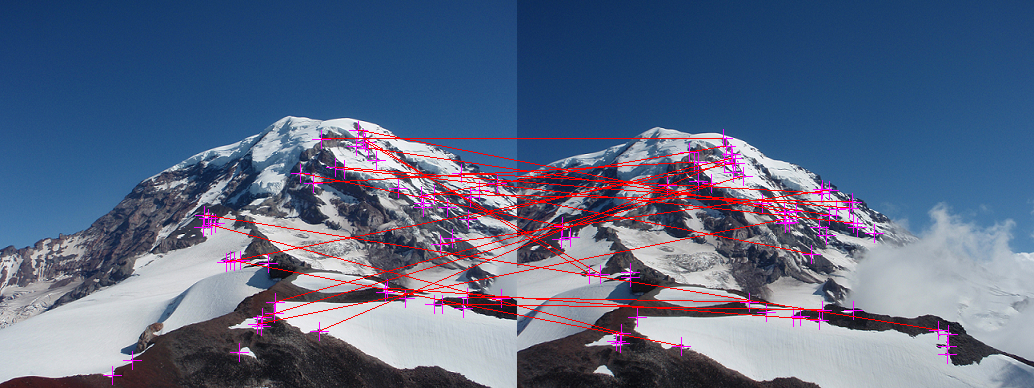
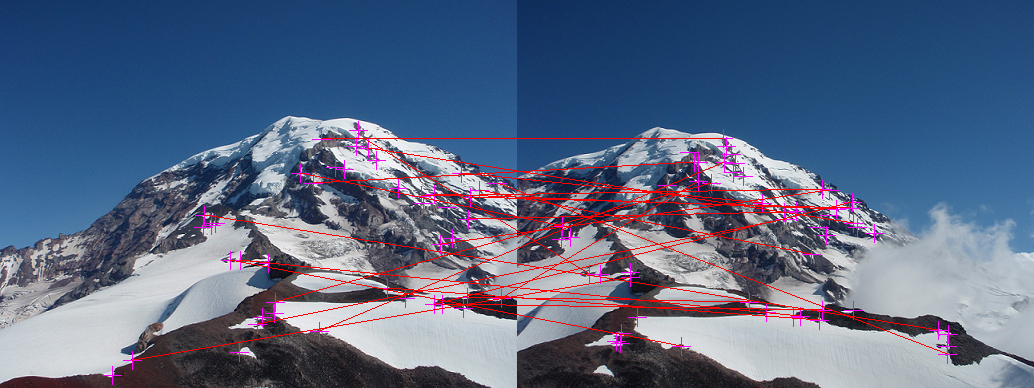
[hw3] need fix match_descriptors

diff --git a/src/hw3/panorama_image.c b/src/hw3/panorama_image.c
@@ -122,7 +122,11 @@ float l1_distance(float *a, float *b, int n)
     // TODO: return the correct number.
     float result = 0;
     for(int i = 0; i < n; i++){
-        result += abs(a[i] - b[i]);
+        if (a[i] < b[i]) {
+            result += b[i] - a[i];
+        } else {
+            result += a[i] - b[i];
+        }
     }
     return result;
 }
@@ -170,6 +174,7 @@ match *match_descriptors(descriptor *a, int an, descriptor *b, int bn, int *mn)
     qsort(m, an, sizeof(match), match_compare);
     match* unique = calloc(an, sizeof(match));
     for(i = 0; i < an; i++){
+        printf("distance=%f\n", m[i].distance);
         if (seen[m[i].bi] == 0) {
             unique[count] = m[i];
             count++;

diff --git a/tryhw3.py b/tryhw3.py
@@ -67,7 +67,7 @@ def field_panorama():
     pan5 = panorama_image(pan4, im3, thresh=2, iters=50000, inlier_thresh=3)
     save_image(pan5, "field_panorama_5")
 
-draw_corners()
+#draw_corners()
 draw_matches()
 # easy_panorama()
 #rainier_panorama()
